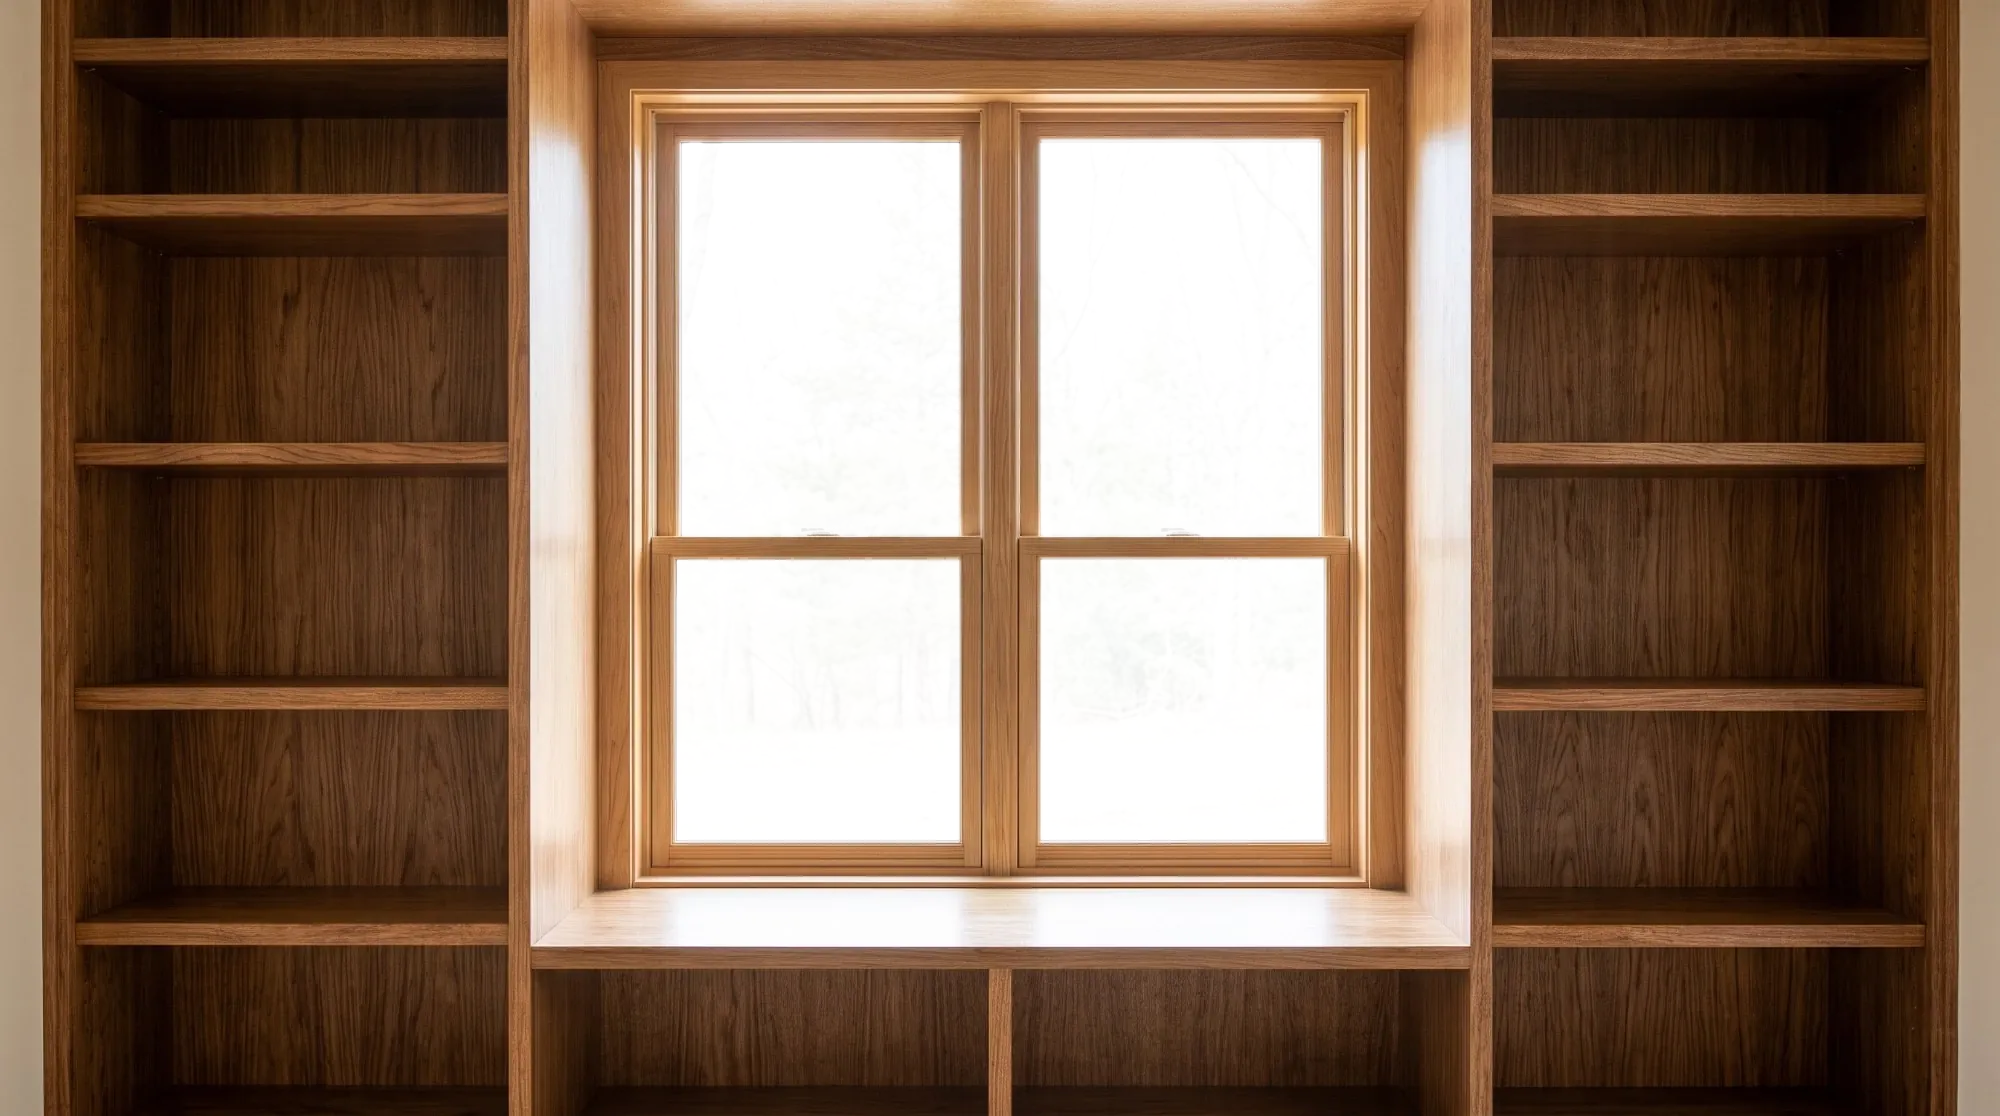
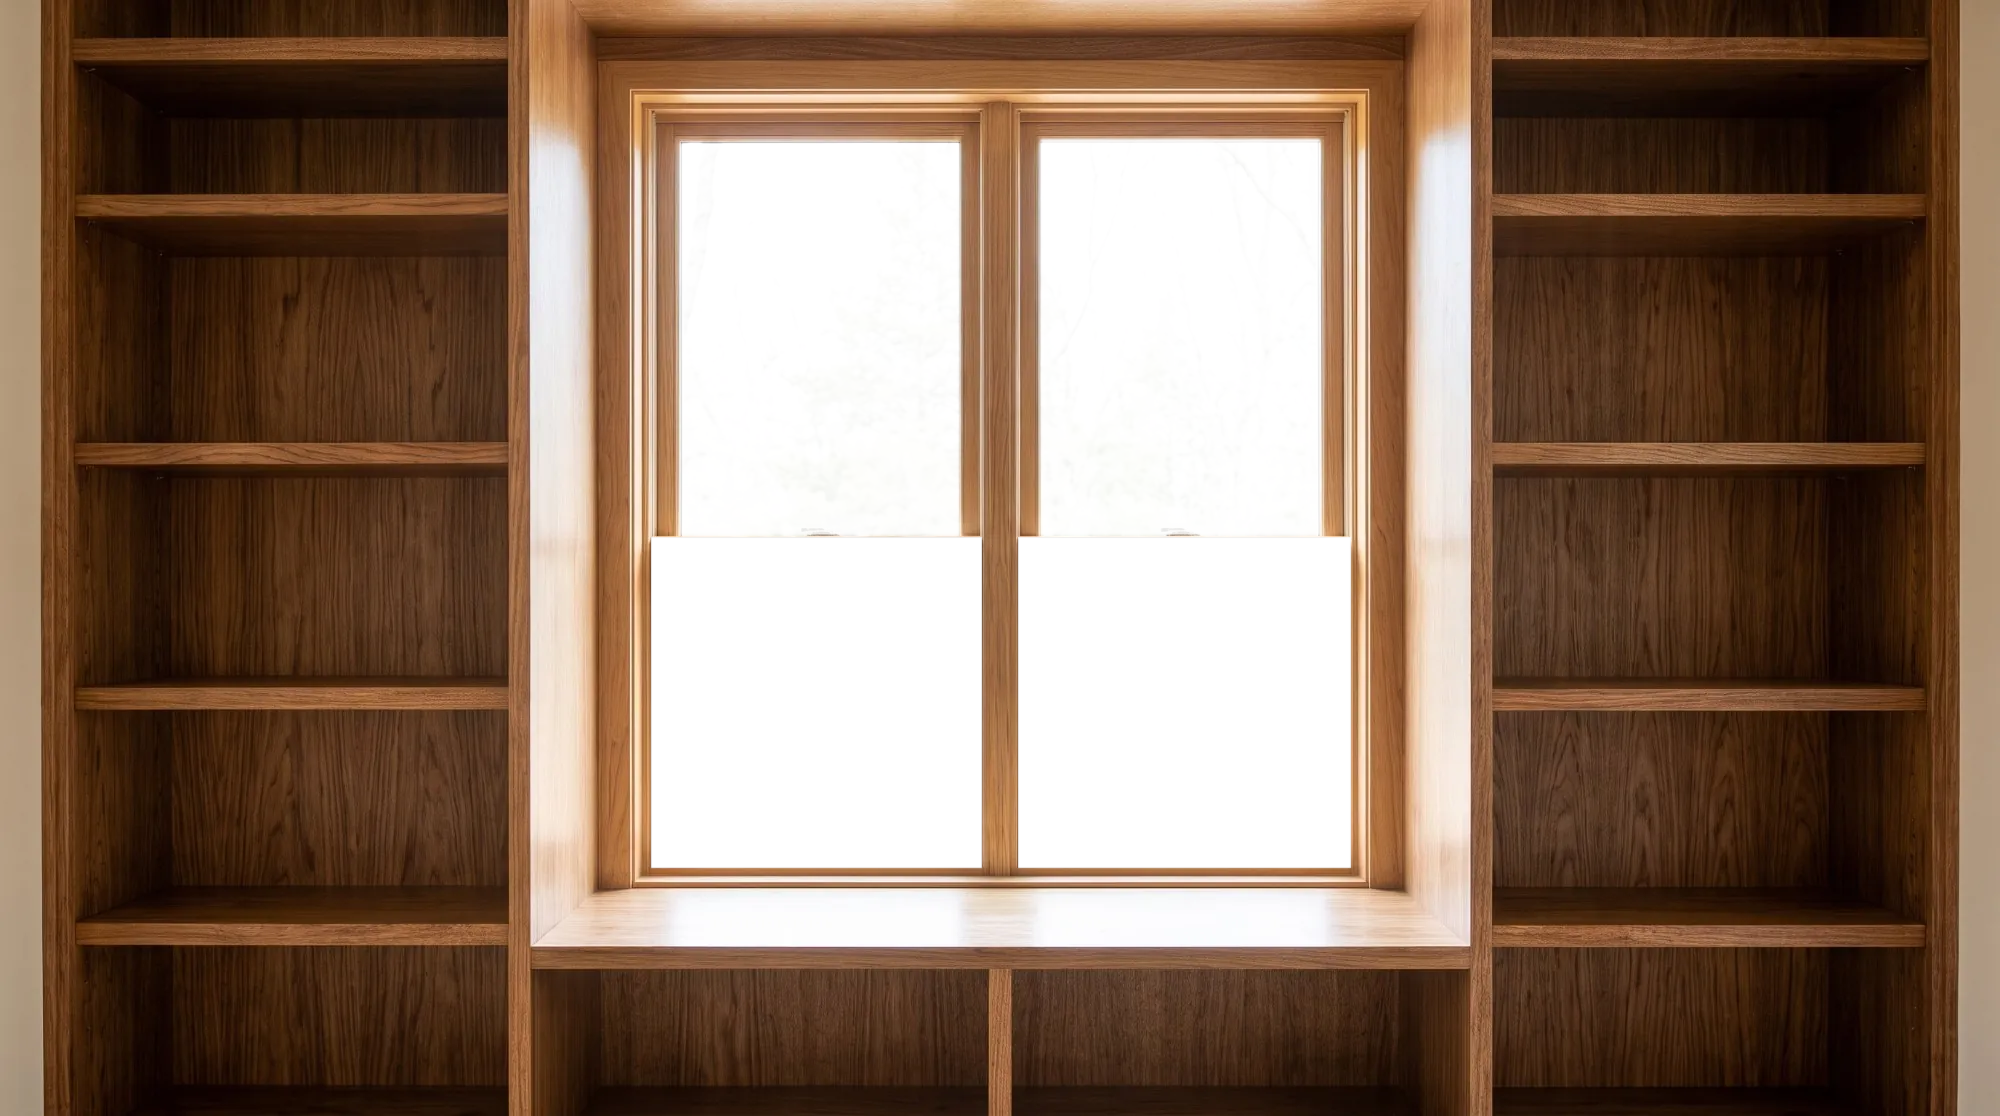
Open the window in the window nook
The bottom sashes are cut out of the photo into their own layer
(scripts/make-window-nook.py). Tapping the window slides them up like a
real sash window; the opening shows the view with no glass, and a breeze
comes in for the season (petals, fireflies, leaves or snow). The choice
is remembered on the device; tap again to close.

Changed region(s): [[0.31, 0.457, 0.682, 0.7921]]

diff --git a/resources/css/shelf-themes.css b/resources/css/shelf-themes.css
@@ -1310,3 +1310,75 @@ svg.tree-lantern {
 .book-tree.is-arranging [data-decor-piece]:hover { outline-color: #f5d590; }
 .book-tree.is-arranging [data-decor-piece].is-moving { cursor: grabbing; outline-style: solid; outline-color: #f5d590; filter: drop-shadow(0 10px 14px rgb(0 0 0 / 40%)); }
 .book-tree.is-arranging .tree-book { opacity: .55; pointer-events: none; }
+
+/* ---- The window nook's window opens ---- */
+.photo-shelf__sash {
+    position: absolute;
+    z-index: 1;
+    max-width: none;
+    pointer-events: none;
+    user-select: none;
+    transform: translateY(0);
+    transition: transform 1.1s cubic-bezier(.45,.05,.2,1);
+    filter: drop-shadow(0 6px 6px rgb(0 0 0 / 18%));
+}
+.photo-shelf.is-window-open .photo-shelf__sash { transform: translateY(var(--open)); }
+
+.photo-shelf__window-toggle {
+    position: absolute;
+    z-index: 2;
+    display: flex;
+    align-items: flex-end;
+    justify-content: center;
+    padding-bottom: 6%;
+    background: transparent;
+    cursor: pointer;
+}
+.photo-shelf__window-hint {
+    border-radius: 999px;
+    background: rgb(42 26 29 / 72%);
+    padding: .35rem .8rem;
+    font-size: max(11px, calc(var(--u) * 16));
+    font-weight: 600;
+    color: #fff8ef;
+    opacity: 0;
+    transform: translateY(4px);
+    transition: opacity .2s ease, transform .2s ease;
+    backdrop-filter: blur(3px);
+}
+.photo-shelf__window-toggle:hover .photo-shelf__window-hint,
+.photo-shelf__window-toggle:focus-visible .photo-shelf__window-hint { opacity: 1; transform: none; }
+.photo-shelf.is-window-open .photo-shelf__window-hint::after { content: " · tap to close"; }
+.photo-shelf__window-toggle:focus-visible { outline: 3px solid #f5d590; outline-offset: -3px; border-radius: 4px; }
+.book-tree.is-arranging .photo-shelf__window-toggle, .book-tree.is-dragging .photo-shelf__window-toggle { pointer-events: none; }
+
+/* a breeze comes in while it's open: petals, fireflies, leaves or snow, by season */
+.photo-shelf__breeze { position: absolute; z-index: 3; overflow: visible; pointer-events: none; opacity: 0; transition: opacity .8s ease .6s; }
+.photo-shelf.is-window-open .photo-shelf__breeze { opacity: 1; }
+.photo-shelf__breeze span {
+    position: absolute;
+    left: var(--x);
+    top: var(--y);
+    width: calc(var(--u) * 12);
+    height: calc(var(--u) * 9);
+    border-radius: 60% 40% 60% 40%;
+    background: #f7b7c6;
+    opacity: 0;
+    animation: window-breeze var(--d) ease-in-out var(--delay) infinite;
+    animation-play-state: paused;
+}
+.photo-shelf.is-window-open .photo-shelf__breeze span { animation-play-state: running; }
+.photo-shelf[data-season="summer"] .photo-shelf__breeze span { width: calc(var(--u) * 6); height: calc(var(--u) * 6); border-radius: 50%; background: #fff7a8; box-shadow: 0 0 calc(var(--u) * 10) calc(var(--u) * 3) rgb(255 240 140 / 70%); }
+.photo-shelf[data-season="autumn"] .photo-shelf__breeze span { background: #e07b2a; border-radius: 10% 70% 10% 70%; }
+.photo-shelf[data-season="autumn"] .photo-shelf__breeze span:nth-child(3n) { background: #b8402b; }
+.photo-shelf[data-season="winter"] .photo-shelf__breeze span { width: calc(var(--u) * 6); height: calc(var(--u) * 6); border-radius: 50%; background: #fff; box-shadow: 0 0 calc(var(--u) * 3) rgb(255 255 255 / 80%); }
+@keyframes window-breeze {
+    0% { transform: translate(0, 0) rotate(0); opacity: 0; }
+    15% { opacity: .95; }
+    80% { opacity: .9; }
+    100% { transform: translate(var(--drift), calc(var(--u) * 260)) rotate(220deg); opacity: 0; }
+}
+@media (prefers-reduced-motion: reduce) {
+    .photo-shelf__sash { transition: none; }
+    .photo-shelf__breeze { display: none; }
+}

diff --git a/resources/js/tree-shelf.js b/resources/js/tree-shelf.js
@@ -703,3 +703,28 @@ document.querySelectorAll('[data-scroll-frame]').forEach((frame) => {
     tree.addEventListener('pointerup', end);
     tree.addEventListener('pointercancel', end);
 })();
+
+// Window nook: tap the window to open it (the bottom sashes slide up); remembered on this device.
+document.querySelectorAll('[data-window-toggle]').forEach((button) => {
+    const shelf = button.closest('.photo-shelf');
+    const key = 'bookworm-window-open';
+    const set = (open) => {
+        shelf.classList.toggle('is-window-open', open);
+        button.setAttribute('aria-pressed', String(open));
+        button.setAttribute('aria-label', open ? 'Close the window' : 'Open the window');
+    };
+    try {
+        if (localStorage.getItem(key) === '1') set(true);
+    } catch {
+        // storage blocked
+    }
+    button.addEventListener('click', () => {
+        const open = !shelf.classList.contains('is-window-open');
+        set(open);
+        try {
+            localStorage.setItem(key, open ? '1' : '0');
+        } catch {
+            // storage blocked
+        }
+    });
+});

diff --git a/resources/views/profile/partials/photo-shelf.blade.php b/resources/views/profile/partials/photo-shelf.blade.php
@@ -56,6 +56,20 @@
             @else
                 <img class="photo-shelf__img" src="{{ \App\Support\StaticAsset::url($scene['image']) }}" alt="" width="{{ $scene['width'] }}" height="{{ $scene['height'] }}" decoding="async" fetchpriority="high" draggable="false">
             @endif
+            @if ($scene['sash'])
+                {{-- The bottom sashes: tap the window to slide them up --}}
+                <img class="photo-shelf__sash" src="{{ \App\Support\StaticAsset::url($scene['sash']['image']) }}" alt="" draggable="false"
+                     style="left: {{ $scene['sash']['left'] }}%; top: {{ $scene['sash']['top'] }}%; width: {{ $scene['sash']['width'] }}%; height: {{ $scene['sash']['height'] }}%; --open: -{{ $scene['sash']['open'] }}%;">
+                <div class="photo-shelf__breeze" aria-hidden="true" style="left: {{ $scene['glass']['left'] }}%; top: {{ $scene['glass']['top'] }}%; width: {{ $scene['glass']['width'] }}%; height: {{ $scene['glass']['height'] }}%;">
+                    @foreach (range(0, 9) as $i)
+                        <span style="--x: {{ 8 + ($i * 37 % 84) }}%; --y: {{ 50 + ($i * 23 % 45) }}%; --d: {{ 4 + ($i % 4) * 1.3 }}s; --delay: -{{ $i * 0.7 }}s; --drift: {{ ($i % 2 ? 1 : -1) * (40 + $i * 9) }}px;"></span>
+                    @endforeach
+                </div>
+                <button type="button" class="photo-shelf__window-toggle" data-window-toggle aria-pressed="false" aria-label="Open the window"
+                        style="left: {{ $scene['glass']['left'] }}%; top: {{ $scene['glass']['top'] }}%; width: {{ $scene['glass']['width'] }}%; height: {{ $scene['glass']['height'] }}%;">
+                    <span class="photo-shelf__window-hint">Tap to open the window</span>
+                </button>
+            @endif
             @if ($scene['glass'])
                 <span class="photo-shelf__light" aria-hidden="true"></span>
             @endif

diff --git a/app/Support/ShelfScene.php b/app/Support/ShelfScene.php
@@ -133,7 +133,9 @@ class ShelfScene
             'min_width' => 900,
             'decor_scale' => 1.5,
             // the glass, so the view can sit behind it
-            'window' => ['x1' => 670, 'y1' => 132, 'x2' => 1332, 'y2' => 848],
+            'window' => ['x1' => 645, 'y1' => 130, 'x2' => 1356, 'y2' => 872],
+            // the bottom sashes (images/shelves/window-sash.webp): they slide up this far to open the window
+            'sash' => ['image' => 'images/shelves/window-sash.webp', 'x1' => 645, 'y1' => 530, 'x2' => 1356, 'y2' => 872, 'open_by' => 330],
             'decor' => [
                 'star' => [1000, 78],
                 'ornaments' => [[730, 112], [850, 116], [1150, 116], [1270, 112], [620, 300], [1380, 300]],
@@ -333,6 +335,20 @@ class ShelfScene
             'window' => null,   // the window nook has a real window
         ] : null;
 
-        return ['height' => $h, 'pieces' => $pieces, 'shelves' => $shelves, 'glass' => $window, 'decor' => $decor] + $scene;
+        $sash = null;
+        if (isset($scene['sash'])) {
+            $s = $scene['sash'];
+            $sash = [
+                'image' => $s['image'],
+                'left' => $pct($s['x1'], $w),
+                'top' => $pct($s['y1'], $h),
+                'width' => $pct($s['x2'] - $s['x1'], $w),
+                'height' => $pct($s['y2'] - $s['y1'], $h),
+                // how far it slides, as a share of its own height
+                'open' => round($s['open_by'] / ($s['y2'] - $s['y1']) * 100, 2),
+            ];
+        }
+
+        return ['height' => $h, 'pieces' => $pieces, 'shelves' => $shelves, 'glass' => $window, 'decor' => $decor, 'sash' => $sash] + $scene;
     }
 }

diff --git a/scripts/make-window-nook.py b/scripts/make-window-nook.py
@@ -1,0 +1,36 @@
+# Window nook picture (from the source photo): see-through glass, the two
+# bottom sashes cut out into their own layer so the window can open.
+#   python3 scripts/make-window-nook.py <source 2000x1116 photo>
+import sys
+import numpy as np
+from PIL import Image, ImageDraw, ImageFilter
+
+src = Image.open(sys.argv[1]).convert('RGBA')
+W, H = src.size
+upper_panes = [(681, 143, 958, 534), (1041, 139, 1319, 534)]
+lower_panes = [(677, 560, 959, 840), (1041, 558, 1324, 840)]
+lower_sashes = [(651, 537, 981, 867), (1018, 537, 1350, 867)]
+LAYER = (645, 530, 1356, 872)          # the sash layer's box in the picture
+
+def soft_mask(boxes, blur=1.2):
+    m = Image.new('L', (W, H), 0)
+    d = ImageDraw.Draw(m)
+    for b in boxes:
+        d.rectangle(b, fill=255)
+    return np.array(m.filter(ImageFilter.GaussianBlur(blur))).astype(float) / 255
+
+a = np.array(src).astype(float)
+glass = soft_mask(upper_panes + lower_panes)
+alpha = 255 - glass * (255 - 38)                     # glass: faint reflection only
+
+# The room: no bottom sashes (the opening shows the view behind)
+room = a.copy()
+room[..., 3] = alpha * (1 - soft_mask(lower_sashes, .6))
+Image.fromarray(room.clip(0, 255).astype('uint8')).save('public/images/shelves/window-nook.webp', quality=80, method=6)
+
+# The sashes: wood frames and their glass, nothing else
+sash = a.copy()
+sash[..., 3] = alpha * soft_mask(lower_sashes, .6)
+x1, y1, x2, y2 = LAYER
+Image.fromarray(sash[y1:y2, x1:x2].clip(0, 255).astype('uint8')).save('public/images/shelves/window-sash.webp', quality=86, method=6)
+print('room + sash layer', (x2 - x1, y2 - y1))

diff --git a/tests/Feature/ShelfStyleTest.php b/tests/Feature/ShelfStyleTest.php
@@ -128,3 +128,10 @@ test('decorations can be moved and their spots are kept per shelf style', functi
     $this->actingAs($me)->deleteJson(route('decor.positions.reset'), ['style' => 'window'])->assertOk();
     expect($me->fresh()->decor_positions)->toBeNull();
 });
+
+test('the window nook window can be opened', function () {
+    $me = User::factory()->create(['shelf_style' => 'window']);
+    $this->actingAs($me)->get(route('users.show', $me->username))
+        ->assertSee('data-window-toggle', false)->assertSee('window-sash.webp', false);
+    expect(file_exists(public_path('images/shelves/window-sash.webp')))->toBeTrue();
+});
